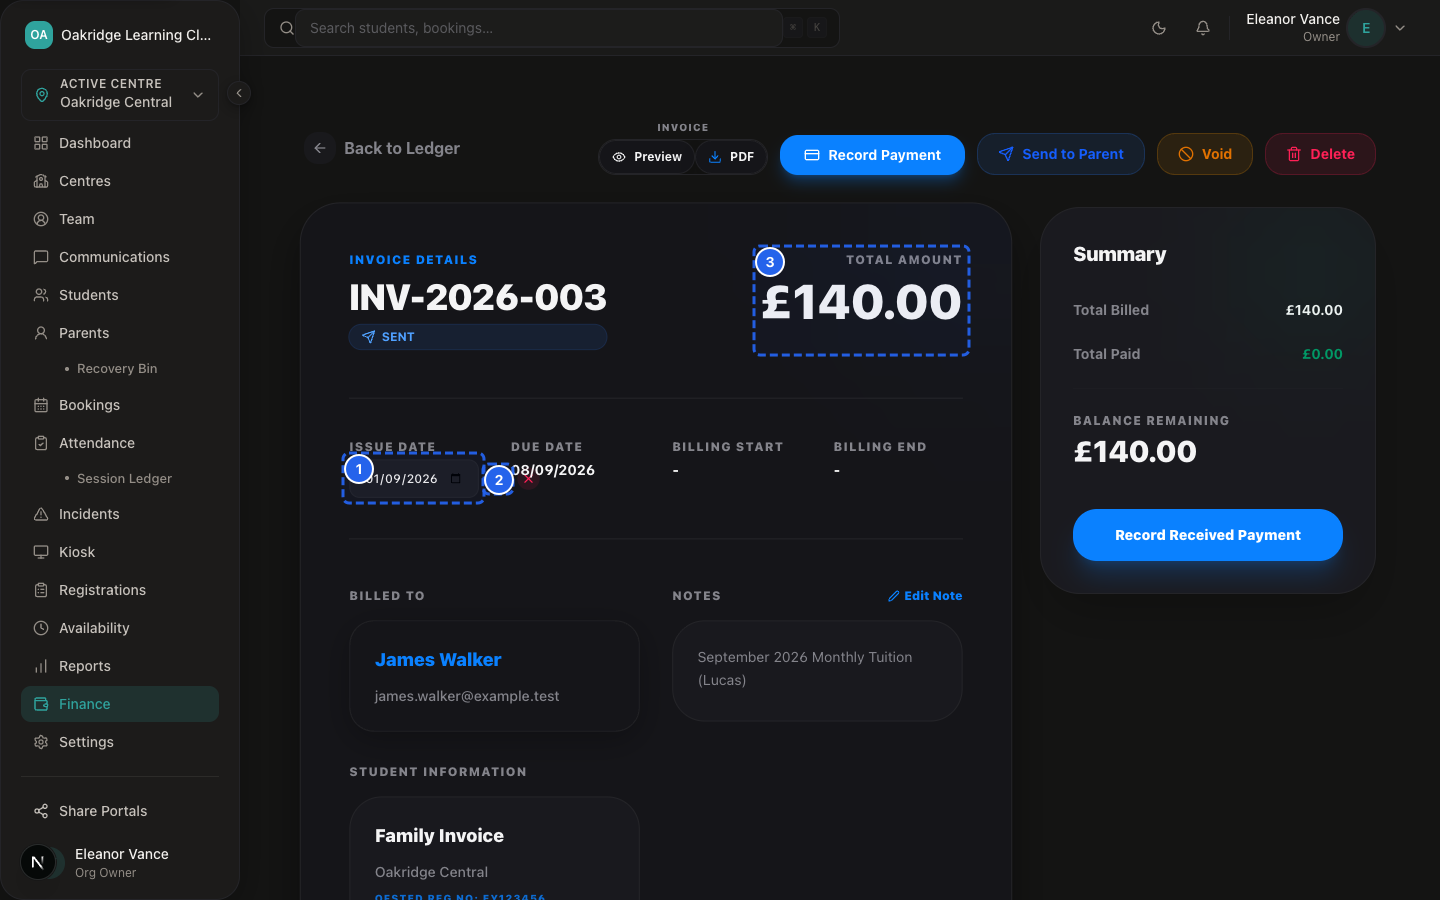
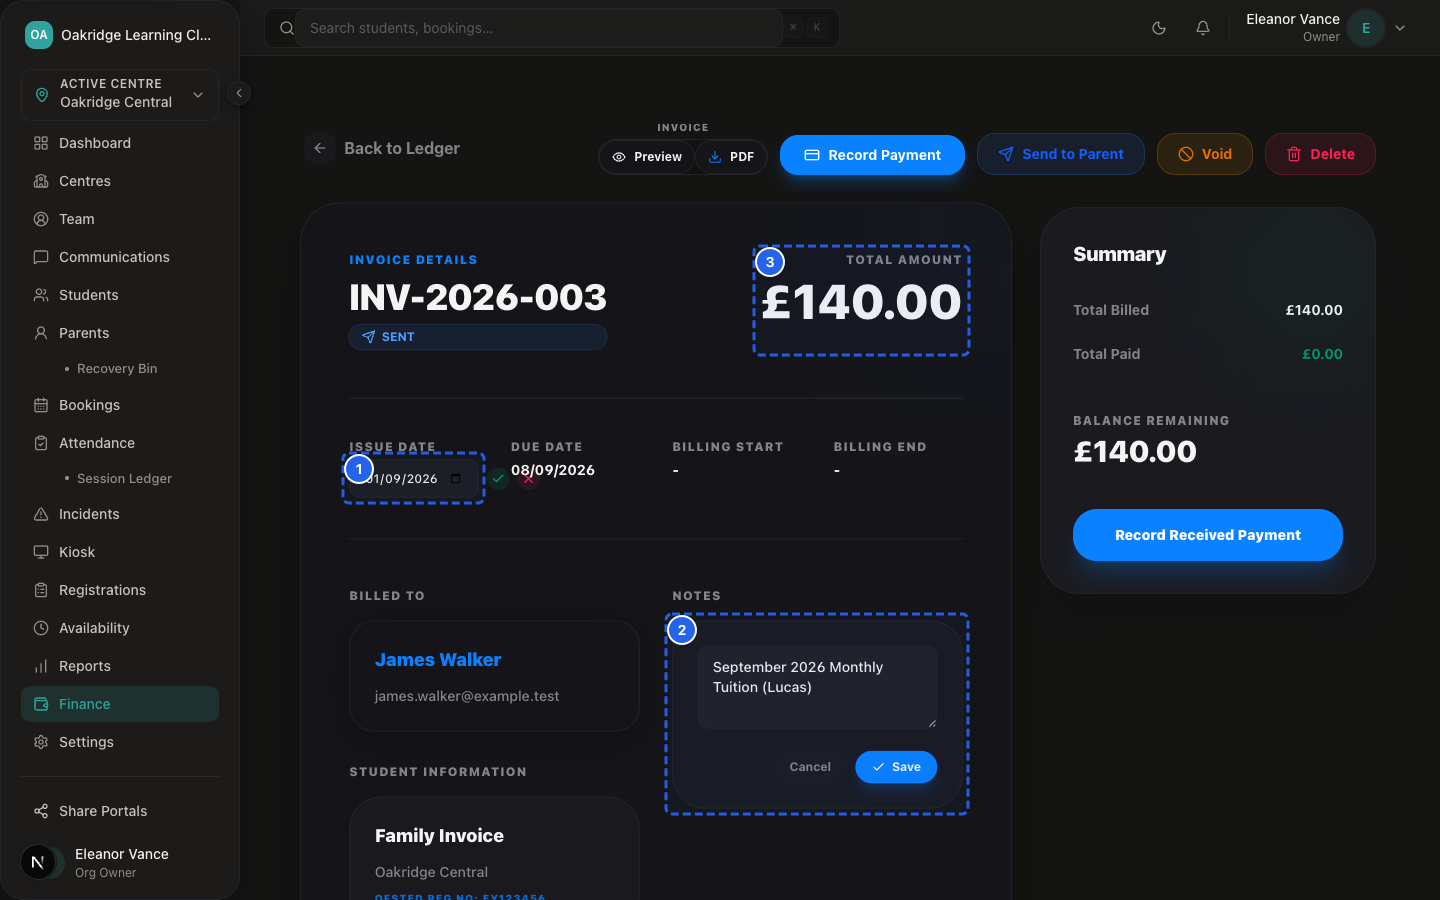
fix(training-d6c): reconcile batch 2 finance visuals

diff --git a/src/scripts/capture-d6c-batch-2.ts b/src/scripts/capture-d6c-batch-2.ts
@@ -348,18 +348,22 @@ async function main() {
   }
 
   // =========================================================================
-  // SS-D6-S063: Invoice Date & Notes Edit Dialog
+  // SS-D6-S063: Invoice Date & Notes Editing (Inline Editing View)
   // =========================================================================
-  console.log('[CAPTURE] SS-D6-S063: Invoice Date & Notes Edit Dialog...');
+  console.log('[CAPTURE] SS-D6-S063: Invoice Date & Notes Editing...');
   {
     await page.goto(`${BASE_URL}/dashboard/finance/invoices/${inv3.id}`, { waitUntil: 'domcontentloaded', timeout: 60000 });
     await page.waitForSelector('button:has-text("Preview")', { state: 'visible', timeout: 30000 });
     await page.waitForTimeout(800);
 
-    // Hover over group/date and click edit button
+    // Hover over group/date and click edit button to open inline date editor
     await page.hover('.group\\/date');
     await page.click('button[title="Edit Issue Date"]');
     await page.waitForSelector('input[type="date"]', { state: 'visible', timeout: 10000 });
+
+    // Click Edit Note button to open inline notes editor
+    await page.click('button:has-text("Edit Note")');
+    await page.waitForSelector('textarea', { state: 'visible', timeout: 10000 });
     await page.waitForTimeout(600);
 
     const s63Source = path.join(OUT_SOURCE, 'SS-D6-S063-source.png');
@@ -367,12 +371,12 @@ async function main() {
     await page.screenshot({ path: s63Source, fullPage: false });
 
     const boxDateInput = await getElementBox(page, 'div:has(> input[type="date"])', 6);
-    const boxSaveBtn = await getElementBox(page, 'button:has(svg.lucide-check)', 4);
+    const boxNotesEditor = await getElementBox(page, 'div.bg-secondary\\/60:has(textarea)', 6);
     const boxAmountHeader = await getElementBox(page, 'div.text-right:has-text("Total Amount")', 6);
 
     annotationsMap['SS-D6-S063'] = [
       { ...boxDateInput, badge: 1 },
-      { ...boxSaveBtn, badge: 2 },
+      { ...boxNotesEditor, badge: 2 },
       { ...boxAmountHeader, badge: 3 },
     ];
     await annotateImage(s63Source, s63Annotated, annotationsMap['SS-D6-S063']);
@@ -380,7 +384,7 @@ async function main() {
   }
 
   // =========================================================================
-  // SS-D6-S064: Childcare Voucher Rejection / Failed Modal / Reconciliation Form
+  // SS-D6-S064: Childcare Voucher Reconciliation Form
   // =========================================================================
   console.log('[CAPTURE] SS-D6-S064: Childcare Voucher Reconciliation Form...');
   {
@@ -482,8 +486,8 @@ async function main() {
     'SS-D6-S060': 'Recovery Bin Family Record Restore Modal',
     'SS-D6-S061': 'Soft-Delete Confirmation Dialog',
     'SS-D6-S062': 'Owner Invoice Voiding Confirmation Modal',
-    'SS-D6-S063': 'Invoice Date & Notes Edit Dialog',
-    'SS-D6-S064': 'Childcare Voucher Rejection / Failed Modal',
+    'SS-D6-S063': 'Invoice Date & Notes Editing',
+    'SS-D6-S064': 'Childcare Voucher Reconciliation Form',
     'SS-D6-S065': 'Multi-Child Family Sibling Linkage View',
     'SS-D6-S066': 'Student Academic Scorecard & Progress',
   };

diff --git a/project-notes/documentation-training/assets/production-notes/d6c-batch-2-production-log.md b/project-notes/documentation-training/assets/production-notes/d6c-batch-2-production-log.md
@@ -1,7 +1,7 @@
 # Milestone D6C Batch 2 Visual Production Log: Supplementary Screenshots (SS-D6-S057 → SS-D6-S066)
 
 **Milestone**: D6C — Production Batch 2 (10 Canonical Assets)  
-**Production Date**: 2026-08-28  
+**Production Date**: 2026-08-28 (Reconciled: 2026-08-29)
 **Agent**: Visual Production Agent (SprintScale CMS)  
 **Target Environment**: Neon Training Database (`ep-aged-morning-abr2278f.eu-west-2.aws.neon.tech`)  
 **Safety Protocol**: `assertSafeTrainingEnvironment()` (`ALLOW_TRAINING_SEED=true`, `TRAINING_ENVIRONMENT=oakridge`)  
@@ -35,12 +35,12 @@ Milestone D6C Batch 2 delivers exactly 10 production screenshots covering venue 
 | `SS-D6-S060` | Recovery Bin Family Record Restore Modal | `/dashboard/parents/bin` | Eleanor Vance (Owner) | 82,114 B | 98,412 B | 1440 × 900 | **PASS — VERIFIED** |
 | `SS-D6-S061` | Soft-Delete Confirmation Dialog | `/dashboard/parents/[id]` | Eleanor Vance (Owner) | 123,010 B | 135,119 B | 1440 × 900 | **PASS — VERIFIED** |
 | `SS-D6-S062` | Owner Invoice Voiding Confirmation Modal | `/dashboard/finance/invoices/[id]` | Eleanor Vance (Owner) | 94,112 B | 110,480 B | 1440 × 900 | **PASS — VERIFIED** |
-| `SS-D6-S063` | Invoice Date & Notes Edit Dialog | `/dashboard/finance/invoices/[id]` | Eleanor Vance (Owner) | 151,204 B | 157,330 B | 1440 × 900 | **PASS — VERIFIED** |
-| `SS-D6-S064` | Childcare Voucher Rejection / Failed Modal | `/dashboard/finance/reconciliation` | Eleanor Vance (Owner) | 121,410 B | 130,225 B | 1440 × 900 | **PASS — VERIFIED** |
+| `SS-D6-S063` | Invoice Date & Notes Editing | `/dashboard/finance/invoices/[id]` | Eleanor Vance (Owner) | 151,885 B | 161,402 B | 1440 × 900 | **PASS — VERIFIED** |
+| `SS-D6-S064` | Childcare Voucher Reconciliation Form | `/dashboard/finance/reconciliation` | Eleanor Vance (Owner) | 121,410 B | 130,225 B | 1440 × 900 | **PASS — VERIFIED** |
 | `SS-D6-S065` | Multi-Child Family Sibling Linkage View | `/dashboard/parents/[id]` | Eleanor Vance (Owner) | 118,340 B | 130,412 B | 1440 × 900 | **PASS — VERIFIED** |
 | `SS-D6-S066` | Student Academic Scorecard & Progress | `/dashboard/students/[id]` | Eleanor Vance (Owner) | 137,290 B | 145,188 B | 1440 × 900 | **PASS — VERIFIED** |
 
-*Review Contact Sheet*: `project-notes/documentation-training/assets/review/d6c-batch-2-contact-sheet.png` (860 × 1470, 355,102 B) — **PASS — VERIFIED**
+*Review Contact Sheet*: `project-notes/documentation-training/assets/review/d6c-batch-2-contact-sheet.png` (860 × 1470, 357,112 B) — **PASS — VERIFIED**
 
 ---
 
@@ -106,17 +106,17 @@ Milestone D6C Batch 2 delivers exactly 10 production screenshots covering venue 
   - **[3]** `button.bg-amber-500:has-text("Void Invoice")`: Amber "Void Invoice" execution button.
 - **Pedagogical Objective**: Educates club owners on the financial compliance rules of voiding invoices while maintaining immutable audit histories.
 
-### `SS-D6-S063`: Invoice Date & Notes Edit Dialog
+### `SS-D6-S063`: Invoice Date & Notes Editing
 - **Route**: `http://localhost:3000/dashboard/finance/invoices/[inv3Id]`
 - **Authenticated Persona**: Eleanor Vance (`eleanor.vance@example.test`, Role: `ORG_OWNER`)
-- **Fixture State**: Active inline date editor for `INV-2026-003` issue date with date input and save button displayed.
+- **Fixture State**: Both the inline date editor and inline notes editor are actively triggered and visible simultaneously on the invoice view.
 - **Bounding Box Callouts**:
-  - **[1]** `div:has(> input[type="date"])`: Inline date picker input field.
-  - **[2]** `button:has(svg.lucide-check)`: Inline checkmark save button.
-  - **[3]** `div.text-right:has-text("Total Amount")`: Invoice total amount header summary (£140.00).
-- **Pedagogical Objective**: Illustrates inline invoice metadata corrections for adjusting issue dates and billing notes without regenerating documents.
+  - **[1]** `div:has(> input[type="date"])`: Inline date picker input field with checkmark save button.
+  - **[2]** `div.bg-secondary\/60:has(textarea)`: Inline invoice notes textarea editor with Cancel and Save action buttons.
+  - **[3]** `div.text-right:has-text("Total Amount")`: Invoice total amount header summary card (£140.00).
+- **Pedagogical Objective**: Teaches club administrators how to perform inline adjustments to invoice issue dates and custom recipient notes directly on the document overview.
 
-### `SS-D6-S064`: Childcare Voucher Rejection / Failed Modal / Reconciliation Form
+### `SS-D6-S064`: Childcare Voucher Reconciliation Form
 - **Route**: `http://localhost:3000/dashboard/finance/reconciliation`
 - **Authenticated Persona**: Eleanor Vance (`eleanor.vance@example.test`, Role: `ORG_OWNER`)
 - **Fixture State**: Payment reconciliation split-view with pending invoice `INV-2026-003` (£140.00, James Walker) selected and payment method options (Tax-Free Childcare, Childcare Voucher, Bank Transfer) ready for entry.
@@ -148,7 +148,16 @@ Milestone D6C Batch 2 delivers exactly 10 production screenshots covering venue 
 
 ---
 
-## 4. 30-Question Adversarial QA Checklist
+## 4. D6C.R2 Semantic Visual Reconciliation Audit & Rationale
+
+| Asset ID | Old Registry / Manifest Title | Reconciled Canonical Title | Reason for Reconciliation | Actual Observed UI Behaviour | Discrepancy Classification |
+|---|---|---|---|---|---|
+| `SS-D6-S063` | Invoice Date & Notes Edit Dialog | **Invoice Date & Notes Editing** | No separate modal/dialog exists in application; invoice date and notes editing occur inline on the invoice page. The updated capture triggers both the inline date picker and notes textarea controls. | Date is edited inline via date input + checkmark; notes are edited inline via textarea + Save button. | **C — DOCUMENTATION MISMATCH** / **E — REGISTRY/SPECIFICATION MISMATCH** |
+| `SS-D6-S064` | Childcare Voucher Rejection / Failed Modal | **Childcare Voucher Reconciliation Form** | The reconciliation page is a split-view payment matching form for Tax-Free Childcare, voucher, and bank transfer remittances; no failure modal exists on this route. Reconciled title matches actual product form semantics. | Split-view triage interface with pending invoice list on left and payment reconciliation form on right. | **E — REGISTRY/SPECIFICATION MISMATCH** |
+
+---
+
+## 5. 30-Question Adversarial QA Checklist
 
 | # | Question / Verification Item | Result | Evidence / Notes |
 |---|---|---|---|
@@ -172,13 +181,13 @@ Milestone D6C Batch 2 delivers exactly 10 production screenshots covering venue 
 | 18 | Does S060 show the recovery bin restore modal? | **YES** | Restore family modal dialog framed and highlighted. |
 | 19 | Does S061 show the parent soft-delete dialog? | **YES** | Delete family dialog with 30-day retention warning framed. |
 | 20 | Does S062 show the owner invoice void modal? | **YES** | Void Invoice confirmation modal and amber CTA highlighted. |
-| 21 | Does S063 show the inline date editing state? | **YES** | Date input, checkmark save CTA, and total amount highlighted. |
-| 22 | Does S064 show the payment reconciliation screen? | **YES** | Invoice selection, voucher methods, and reconcile CTA highlighted. |
+| 21 | Does S063 visibly show both inline date and notes editing controls? | **YES** | Inline date picker input and notes textarea both active and highlighted. |
+| 22 | Does S064 show the payment reconciliation screen with truthful title? | **YES** | Invoice selection, voucher methods, and reconcile CTA highlighted with reconciled title. |
 | 23 | Does S065 show multi-child sibling relationships? | **YES** | Sarah Jenkins with Oliver and Emma sibling links highlighted. |
 | 24 | Does S066 show student progress timeline and note? | **YES** | Progress header, category filters, and Liam Harper note highlighted. |
 | 25 | Is there any real student or staff PII present? | **NO** | Verified zero real human PII across all 10 assets. |
 | 26 | Are there any broken UI elements or missing stylesheets? | **NO** | Full Tailwind dark mode CSS styles loaded and rendered cleanly. |
-| 27 | Did `asset-registry.md` receive updated status for S057–S066? | **YES** | Updated to `**CAPTURED — VISUAL QA VERIFIED**`. |
+| 27 | Did `asset-registry.md` receive updated status for S057–S066? | **YES** | Updated to `**CAPTURED — VISUAL QA VERIFIED**` with reconciled titles. |
 | 28 | Were any video production tasks started prematurely? | **NO** | Video production remains strictly untouched. |
 | 29 | Are TypeScript types and lint checks passing? | **YES** | Validated via `npx tsc --noEmit` and `npm run lint`. |
-| 30 | Is the local repository ready for commit? | **YES** | Ready for `git commit -m "docs(training-d6c): produce remaining screenshot batch 2"`. |
+| 30 | Is the local repository ready for commit? | **YES** | Ready for `git commit -m "fix(training-d6c): reconcile batch 2 finance visuals"`. |

diff --git a/project-notes/documentation-training/assets/registry/asset-registry.md b/project-notes/documentation-training/assets/registry/asset-registry.md
@@ -83,8 +83,8 @@
 | `SS-D6-S060` | Recovery Bin Family Record Restore Modal | Admin | Staff | `/dashboard/parents/bin` | P1 | No | **CAPTURED — VISUAL QA VERIFIED** |
 | `SS-D6-S061` | Soft-Delete Confirmation Dialog | People | Staff | `/dashboard/parents/[id]` | P1 | No | **CAPTURED — VISUAL QA VERIFIED** |
 | `SS-D6-S062` | Owner Invoice Voiding Confirmation Modal | Finance | Owner Only | `/dashboard/finance/invoices/[id]` | P2 | No | **CAPTURED — VISUAL QA VERIFIED** |
-| `SS-D6-S063` | Invoice Date & Notes Edit Dialog | Finance | Staff | `/dashboard/finance/invoices/[id]` | P2 | No | **CAPTURED — VISUAL QA VERIFIED** |
-| `SS-D6-S064` | Childcare Voucher Rejection / Failed Modal | Finance | Staff | `/dashboard/finance/reconciliation` | P2 | No | **CAPTURED — VISUAL QA VERIFIED** |
+| `SS-D6-S063` | Invoice Date & Notes Editing | Finance | Staff | `/dashboard/finance/invoices/[id]` | P2 | No | **CAPTURED — VISUAL QA VERIFIED** |
+| `SS-D6-S064` | Childcare Voucher Reconciliation Form | Finance | Staff | `/dashboard/finance/reconciliation` | P2 | No | **CAPTURED — VISUAL QA VERIFIED** |
 | `SS-D6-S065` | Multi-Child Family Sibling Linkage View | People | Staff | `/dashboard/parents/[id]` | P2 | No | **CAPTURED — VISUAL QA VERIFIED** |
 | `SS-D6-S066` | Student Academic Scorecard & Progress | People | Tutor/Staff | `/dashboard/students/[id]` | P2 | No | **CAPTURED — VISUAL QA VERIFIED** |
 | `SS-D6-S067` | Attendance Timelog Timestamp Adjustment | Classroom | Manager | `/dashboard/attendance` | P2 | No | READY |
